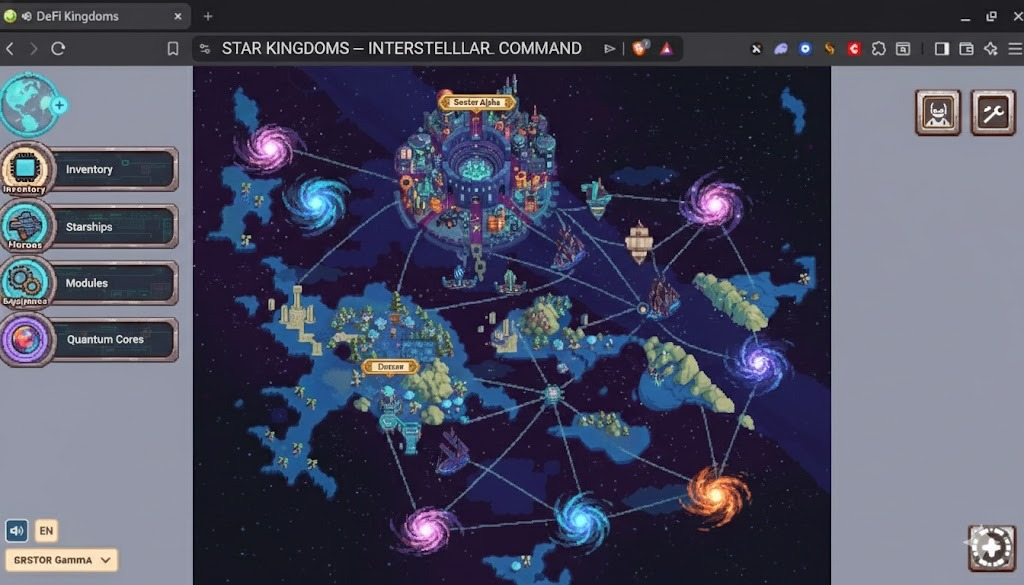
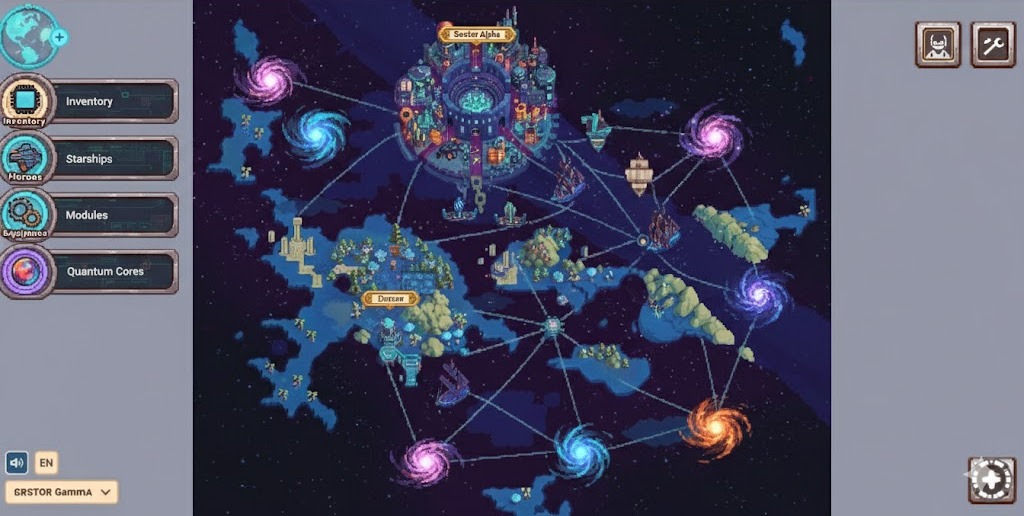
yay

diff --git a/frontend/src/components/views/SpaceBaseMapView.tsx b/frontend/src/components/views/SpaceBaseMapView.tsx
@@ -90,11 +90,12 @@ export const SpaceBaseMapView: React.FC = () => {
         className="relative w-full h-full rounded overflow-hidden"
         style={{ opacity: 0 }}
       >
-        {/* Star Kingdoms Background Image */}
+        {/* Star Kingdoms Background Image - Full image visible */}
         <div
-          className="absolute inset-0 bg-cover bg-center bg-no-repeat"
+          className="absolute inset-0 bg-contain bg-center bg-no-repeat"
           style={{
             backgroundImage: 'url(/star-kingdoms-map.jpg)',
+            backgroundColor: '#1a1a2e',
           }}
         />
 
@@ -106,8 +107,8 @@ export const SpaceBaseMapView: React.FC = () => {
             onMouseEnter={() => setHoveredLocation(location)}
             onMouseLeave={() => setHoveredLocation(null)}
             className={`absolute transition-all duration-200 rounded-lg ${hoveredLocation?.id === location.id || selectedLocation?.id === location.id
-                ? 'bg-cyan-400/20 border-2 border-cyan-400/60'
-                : 'bg-transparent border-2 border-transparent hover:border-cyan-400/30'
+              ? 'bg-cyan-400/20 border-2 border-cyan-400/60'
+              : 'bg-transparent border-2 border-transparent hover:border-cyan-400/30'
               }`}
             style={{
               left: `${location.x}%`,
